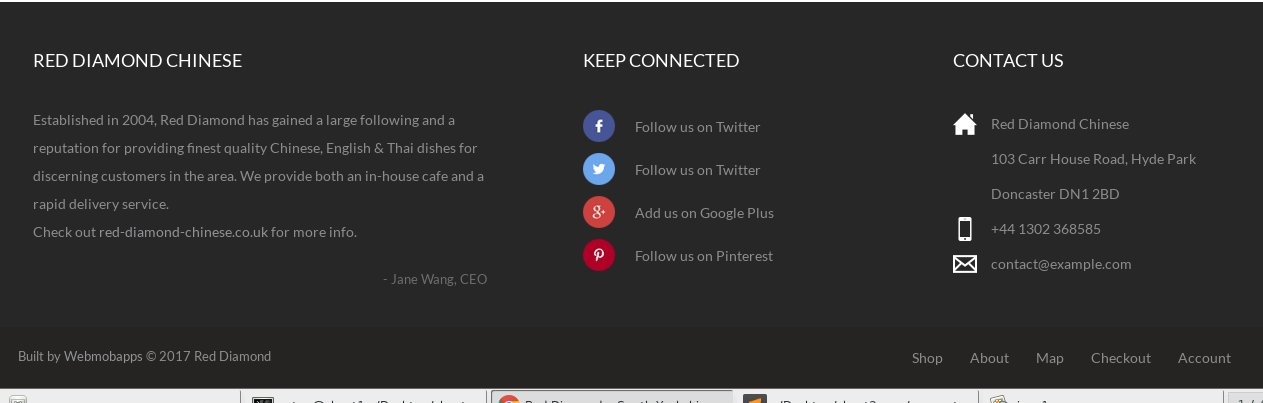
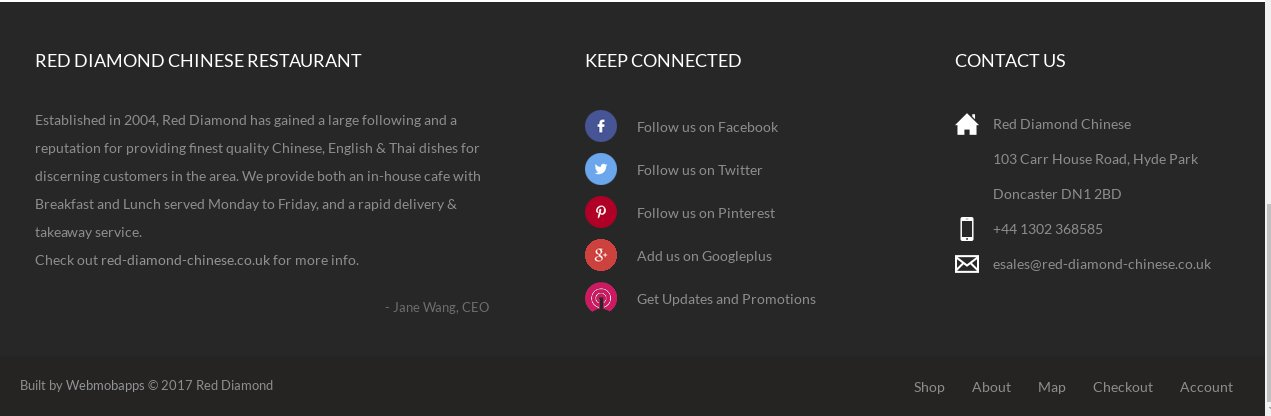
Update Footer

diff --git a/style.css b/style.css
@@ -80,11 +80,11 @@ color:#908F8F;
 display:block;
 }
 .footer.two ul li a.fb {
-	background: url('./images/social2.png') no-repeat 0px 4px;  
+	background: url('./images/social1.png') no-repeat 0px 4px;  
     padding: 10px 0 12px 52px;
 }
 .footer.two ul li a.fb1 {
-	background: url('./images/social1.png') no-repeat 0px 4px;
+	background: url('./images/social2.png') no-repeat 0px 4px;
     padding: 10px 0 12px 52px;
 }
 .footer.two ul li a.fb2 {
@@ -122,44 +122,6 @@ display:block;
     padding-left: 38px;
     display: block;
 	color:#908F8F;
-}
-.copy-right-grids {
-	padding: 20px 20px;
-    background: #211E1E;
-}
-.copy-left{
-	float:left;
-}
-.copy-right{
-	float:right;
-}
-.copy-right ul li {
-    list-style-type: none;
-    display: inline-block;
-    margin: 0 0px;
-    padding: 0 12px;
-}
-.copy-right ul li a {
-    color: #908F8F;
-	font-size:1em;
-}
-.copy-right ul li:nth-child(1) {
-    border: none;
-}
-.footer.two ul li a.fb:hover {
-    background: url('./images/social3hover.png') no-repeat 0px 4px;
-}
-.footer.two ul li a.fb1:hover {
-    background: url('./images/social2hover.png') no-repeat 0px 4px;
-}
-.footer.two ul li a.fb2:hover {
-    background: url('./images/social4hover.png') no-repeat 0px 4px;
-}
-.footer.two ul li a.fb3:hover {
-    background: url('./images/social5hover.png') no-repeat 0px 4px;
-}
-.footer.two ul li a.fb4:hover {
-    background: url('./images/social1hover.png') no-repeat 0px 4px;
 }
 .footer.two ul li a:hover,.copy-right ul li a:hover,.footer.three ul li a:hover{
 	color:#6C7A89;

diff --git a/footer.php b/footer.php
@@ -9,11 +9,11 @@
 				<div class="footer two">
 					<h3>Keep Connected</h3>
 					<ul>
+						<li><a class="fb1" href="#"><i></i>Follow us on Facebook</a></li>
 						<li><a class="fb" href="#"><i></i>Follow us on Twitter</a></li>
-						<li><a class="fb1" href="#"><i></i>Follow us on Twitter</a></li>
-						<li><a class="fb2" href="#"><i></i>Add us on Google Plus</a></li>
-					
-						<li><a class="fb4" href="#"><i></i>Follow us on Pinterest</a></li>
+						<li><a class="fb2" href="#"><i></i>Follow us on Pinterest</a></li>
+					    <li><a class="fb4" href="#"><i></i>Add us on Googleplus</a></l>
+					     <li><a class="fb3" href="#"><i></i>Get Updates and Promotions</a></li>	
 					</ul>
 				</div>
 				<div class="footer three">
